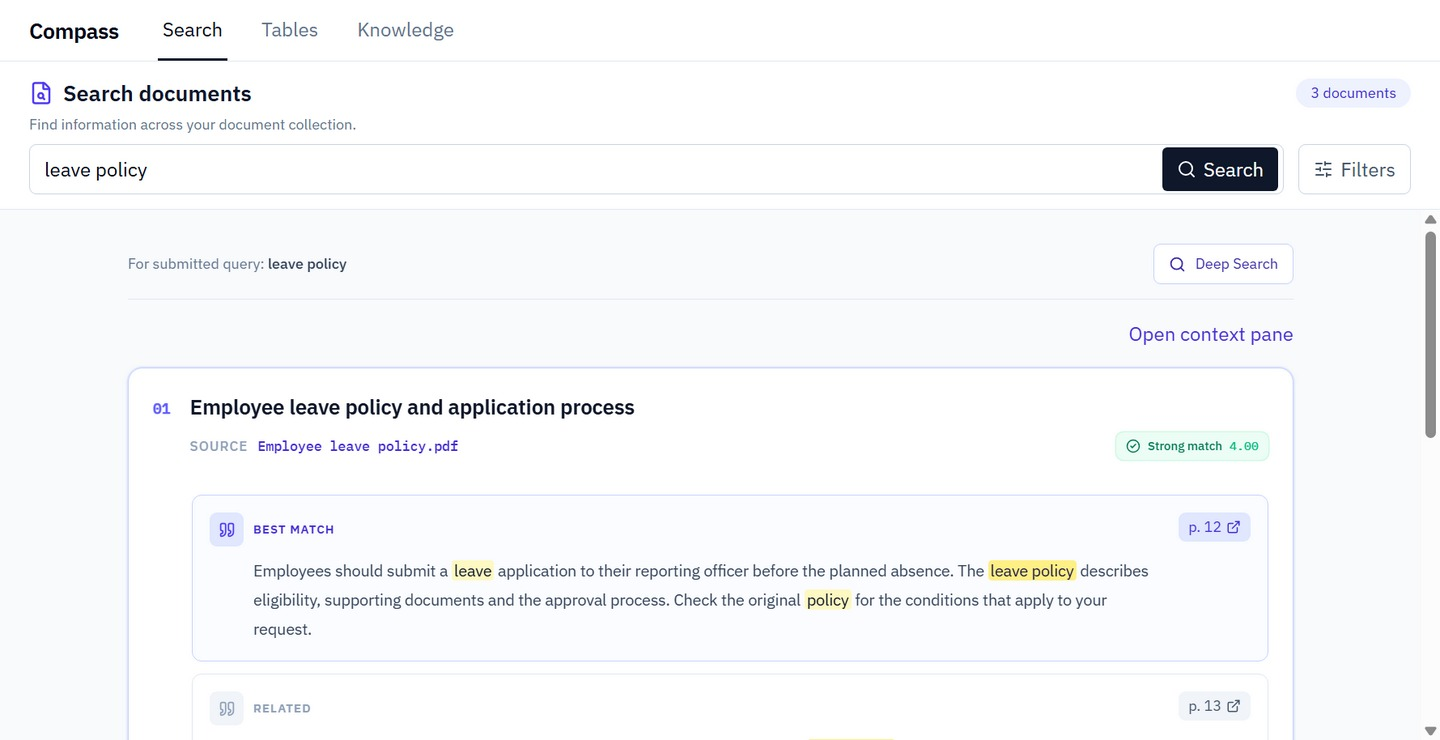
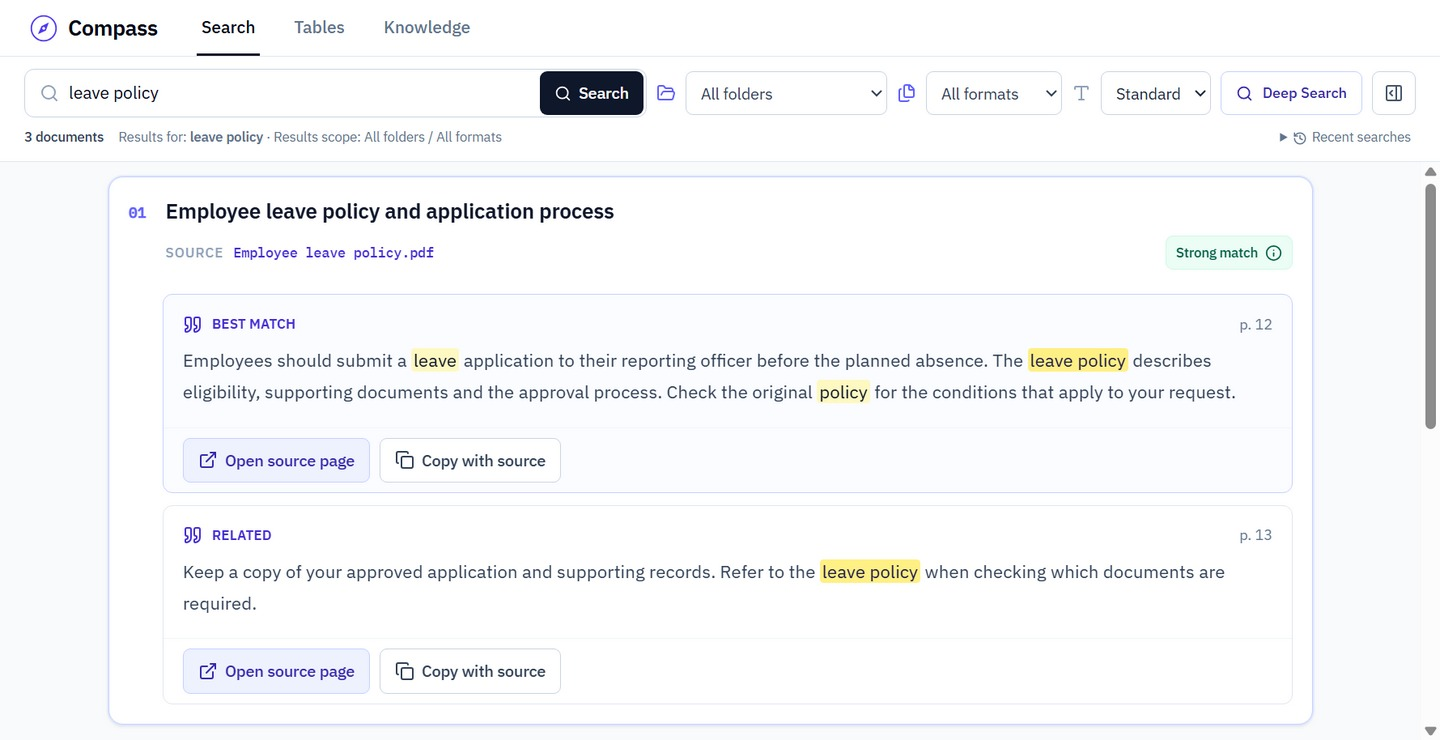
Refresh Compass 0.1.3 download page and search preview

diff --git a/index.html b/index.html
@@ -12,10 +12,10 @@
 <a class="skip" href="#main">Skip to content</a>
 <nav aria-label="Main navigation"><a class="brand" href="#main"><svg class="mark" viewBox="0 0 40 40" fill="none" aria-hidden="true"><circle cx="20" cy="20" r="17" stroke="currentColor" stroke-width="2"/><path d="M27 12L23 23L12 28L17 17L27 12Z" fill="currentColor"/><circle cx="20" cy="20" r="2" fill="white"/></svg>Compass</a><div class="brand-caption">Your documents, within easy reach</div><div class="nav-links"><a href="#how-to">How it works</a><a class="nav-download" href="#download">Get Compass <span aria-hidden="true">&darr;</span></a></div></nav>
 <main id="main">
-  <section class="hero" aria-labelledby="hero-title"><div class="hero-copy"><span class="eyebrow"><span class="dot"></span> LOCAL DOCUMENT SEARCH · WINDOWS</span><p class="hero-question">Too many PDFs. Where was that information?</p><h1 id="hero-title">Clarity, closer<br>to your documents.</h1><p class="lead">Ask a question. Find the relevant passage across your PDFs. Open the exact page to check it. Compass brings your office documents together in one private, searchable collection.</p><a class="download" id="download" href="https://github.com/leapfrog7/compass/releases/latest/download/Compass-Setup.exe"><svg viewBox="0 0 24 24" fill="none" stroke="currentColor" stroke-width="1.8" aria-hidden="true"><path d="M12 3v12m-5-5 5 5 5-5M4 16v5h16v-5"/></svg>Download for Windows</a><p class="small">Windows x64 · Offline models included · Unsigned build</p><div class="alternate"><a href="#how-to">See how it works &darr;</a><a href="#requirements">System requirements</a></div></div>
-  <figure class="preview-wrap"><div class="preview-glow" aria-hidden="true"></div><a class="preview-link" href="assets/compass-search.jpg" target="_blank" rel="noopener" aria-label="View full-size Compass search screenshot"><img src="assets/compass-search.jpg" width="1440" height="740" alt="Compass Search tab with Search, Tables and Knowledge navigation, a leave policy query, highlighted result passages and source page links. Sample documents." fetchpriority="high"></a><figcaption><span><svg viewBox="0 0 24 24" fill="none" stroke="currentColor" stroke-width="1.8" aria-hidden="true"><path d="m5 12 4 4L19 6"/></svg>Actual Compass interface &middot; Sample documents</span><a href="assets/compass-search.jpg" target="_blank" rel="noopener">View full size &nearr;</a></figcaption></figure></section>
+  <section class="hero" aria-labelledby="hero-title"><div class="hero-copy"><span class="eyebrow"><span class="dot"></span> LOCAL DOCUMENT SEARCH · WINDOWS</span><p class="hero-question">Too many PDFs. Where was that information?</p><h1 id="hero-title">Clarity, closer<br>to your documents.</h1><p class="lead">Ask a question. Find the relevant passage across your PDFs. Open the exact page to check it. Compass brings your office documents together in one private, searchable collection.</p><a class="download" id="download" href="https://github.com/leapfrog7/compass/releases/latest/download/Compass-Setup.exe"><svg viewBox="0 0 24 24" fill="none" stroke="currentColor" stroke-width="1.8" aria-hidden="true"><path d="M12 3v12m-5-5 5 5 5-5M4 16v5h16v-5"/></svg>Download for Windows</a><p class="small">Version 0.1.3 · Version 0.1.3 &middot; Windows x64 &middot; Offline models included &middot; Unsigned build</p><div class="alternate"><a href="#how-to">See how it works &darr;</a><a href="#requirements">System requirements</a></div></div>
+  <figure class="preview-wrap"><div class="preview-glow" aria-hidden="true"></div><a class="preview-link" href="assets/compass-search.jpg" target="_blank" rel="noopener" aria-label="View full-size Compass search screenshot"><img src="assets/compass-search.jpg" width="1440" height="740" alt="Compass Search tab with Search, Tables and Knowledge navigation, a compact search row, folder and format controls, highlighted result passages and source page links. Sample documents." fetchpriority="high"></a><figcaption><span><svg viewBox="0 0 24 24" fill="none" stroke="currentColor" stroke-width="1.8" aria-hidden="true"><path d="m5 12 4 4L19 6"/></svg>Actual Compass interface &middot; Sample documents</span><a href="assets/compass-search.jpg" target="_blank" rel="noopener">View full size &nearr;</a></figcaption></figure></section>
   <section id="how-to" class="how-to" aria-labelledby="how-title"><div class="section-heading"><span class="eyebrow">A SIMPLE START</span><h2 id="how-title">From scattered files to answers you can check.</h2><p>No new filing system. No uploads. Just your PDFs.</p></div><ol class="steps"><li><div class="step-icon"><svg viewBox="0 0 24 24"><path d="M3 7V5h7l2 2h9v13H3V7Z"/><path d="M12 11v6m-3-3h6"/></svg><b>1</b></div><h3>Add a folder</h3><p>Choose a folder containing your PDFs. Originals stay untouched.</p></li><li><div class="step-icon"><svg viewBox="0 0 24 24"><path d="M6 3h8l4 4v14H6Z"/><path d="m9 13 2 2 4-4"/></svg><b>2</b></div><h3>Select and prepare</h3><p>Select the files you want and choose Index selected files. This first preparation can take time for large or scanned PDFs.</p></li><li><div class="step-icon"><svg viewBox="0 0 24 24"><circle cx="10" cy="10" r="6"/><path d="m15 15 6 6"/></svg><b>3</b></div><h3>Ask your question</h3><p>Search a topic in your own words. Compass finds relevant passages across the files you selected.</p></li><li><div class="step-icon"><svg viewBox="0 0 24 24"><path d="M4 3h12v18H4Z"/><path d="M8 8h4M8 12h4m3 4 2 2 4-5"/></svg><b>4</b></div><h3>Check the exact page</h3><p>Open the original source to verify it. Use Deep Search when you want to look more closely.</p></li></ol><p class="setup-note">Prepare each PDF once. Compass reuses unchanged files on later scans. Keep your folders in place; moving or renaming them may require reconnecting files.</p></section>
-  <section class="features" aria-label="What Compass does"><div><span class="feature-number">01 / FIND</span><h3>Search across your PDFs.</h3><p>Use keyword and meaning-based retrieval to find relevant passages in your selected files.</p></div><div><span class="feature-number">02 / VERIFY</span><h3>Go straight to the source.</h3><p>Open the original PDF and source page. Keep evidence close to every result.</p></div><div><span class="feature-number">03 / UNDERSTAND</span><h3>Explore a little deeper.</h3><p>Refine with Deep Search, reuse extracted tables, and read scanned pages with English OCR.</p></div></section>
+  <section class="features" aria-label="What Compass does"><div><span class="feature-number">01 / FIND</span><h3>Search across your PDFs.</h3><p>Find relevant passages using keyword and meaning-based search. Narrow your search to an indexed folder when you need to.</p></div><div><span class="feature-number">02 / VERIFY</span><h3>Go straight to the source.</h3><p>Open the original PDF and source page. Keep evidence close to every result.</p></div><div><span class="feature-number">03 / UNDERSTAND</span><h3>Explore a little deeper.</h3><p>Refine with Deep Search, reuse extracted tables, and read scanned pages with English OCR.</p></div></section>
   <section id="requirements" class="requirements" aria-labelledby="requirements-title"><div><h2 id="requirements-title">Ready for your<br>Windows workspace.</h2><p>The installer includes the models needed for local search and OCR. Choose your PDF folders, select the files you want, and index them.</p><p class="small">Internet is needed to download Compass and optionally check for updates. Office application policies still apply to this unsigned build.</p></div><dl class="specs"><div><dt>Operating system</dt><dd>Windows 10 or 11, 64-bit (x64)</dd></div><div><dt>Storage</dt><dd>About 1 GB for Compass, plus room for your PDFs and local index</dd></div><div><dt>Runtime</dt><dd>Compatible Microsoft Visual C++ x64 runtime</dd></div><div><dt>Documents</dt><dd>PDF files; English OCR for scanned pages</dd></div><div><dt>Updates</dt><dd>Help → Check for updates. Close Compass, then install the newer version. Your saved knowledge stays in AppData.</dd></div></dl></section>
   <section class="privacy" aria-labelledby="privacy-title"><svg viewBox="0 0 24 24" fill="none" stroke="currentColor" stroke-width="1.6" aria-hidden="true"><path d="M12 3 4 6v6c0 5 8 9 8 9s8-4 8-9V6l-8-3Z"/><path d="m8 12 3 3 5-6"/></svg><div><h3 id="privacy-title">Your documents stay yours.</h3><p>Indexing, OCR and search run locally and work offline. Compass does not upload or change your source PDFs. Its database and settings stay separate from the application binaries. The optional update check contacts GitHub only when you request it and sends no document data.</p></div></section>
 </main><footer><span>Compass &middot; Your documents, within easy reach</span><details class="technical"><summary>Downloads &amp; technical details</summary><div><a href="https://github.com/leapfrog7/compass/releases/latest">Portable ZIP, checksums &amp; release notes</a><a href="https://github.com/leapfrog7/compass">GitHub</a></div></details></footer>
